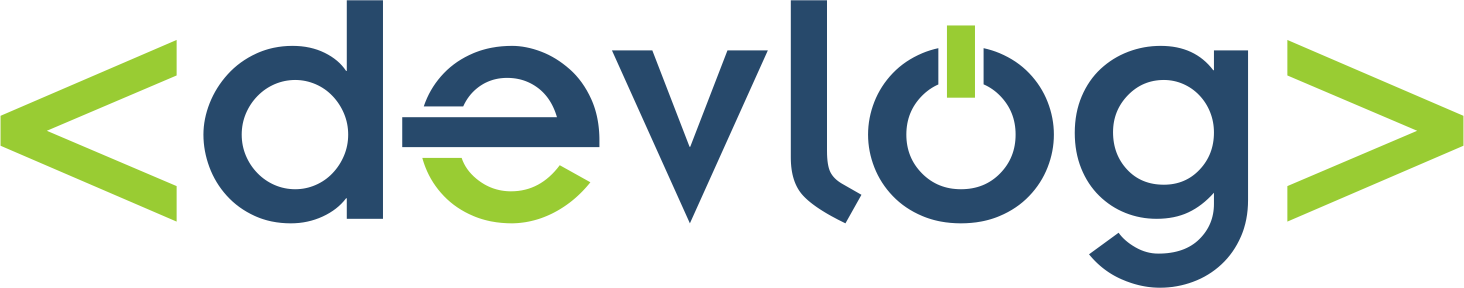
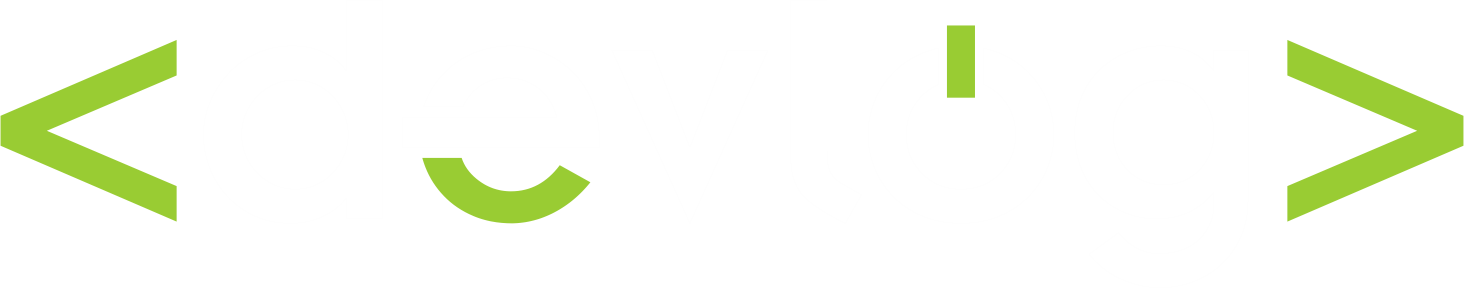
Header adjustments

Changed region(s): [[0.123, 0.0, 0.8607, 1.0]]

diff --git a/themes/huxblog/source/css/hux-blog.css b/themes/huxblog/source/css/hux-blog.css
@@ -373,12 +373,12 @@ pre code {
 }
 .intro-header {
   background: no-repeat center center;
-  background-color: rgba(128, 128, 128, 0.76);
+  background-color: #1f4665;
   background-attachment: scroll;
-  -webkit-background-size: 50%;
-  -moz-background-size: 50%;
-  background-size: 50%;
-  -o-background-size: 50%;
+  -webkit-background-size: 40%;
+  -moz-background-size: 40%;
+  background-size: 40%;
+  -o-background-size: 40%;
   margin-bottom: 0px;
   /* 0 on mobile, modify by Hux */
 }

diff --git a/source/_posts/ProtonType.md b/source/_posts/ProtonType.md
@@ -1,7 +1,13 @@
 ---
 title: Crie sua API REST com ProtonType
 date: 2016-11-15 14:22:30
-tags:
+tags: 
+    - JavaScript
+    - TypeScript
+    - Express
+    - Sequelize
+    - NodeJS
+    - REST
 header-img: img/proton-1.jpg
 subtitle: Express + Sequelize + TypeScript = ProtonType
 ---
